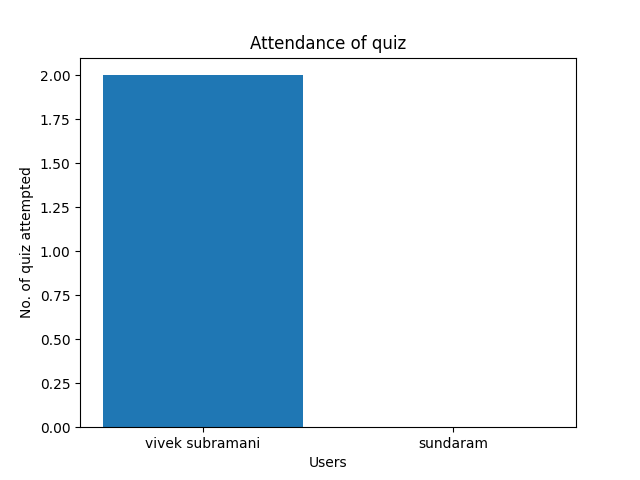
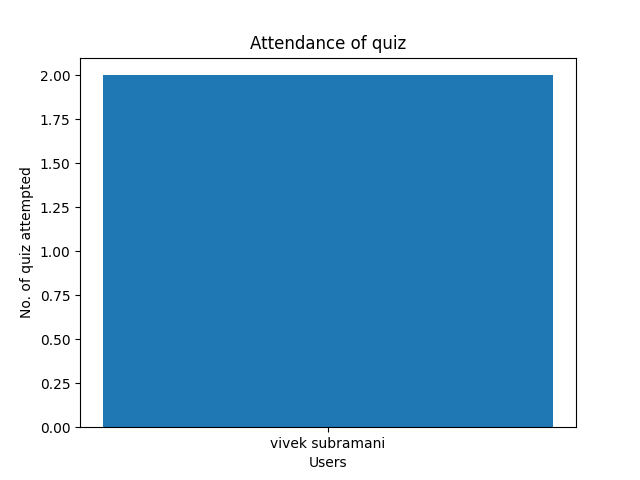
corrected bugs in add quiz date and search for user scores

Changed region(s): [[0.2188, 0.1562, 0.875, 0.9375]]

diff --git a/templates/usersummary.html b/templates/usersummary.html
@@ -25,10 +25,6 @@
                         <a class="nav-link active" aria-current="page" href="/">Logout</a>
                       </li>
                     </ul>
-                    <form class="d-flex" action="/search/{{ u_name }}">
-                      <input class="form-control me-2" type="search" placeholder="Search" aria-label="Search" name="search_word" style="background-color: #ece6e3;">
-                      <button class="btn btn-outline-success" type="submit">Search</button>
-                    </form>
                   </div>
                   <span>&ensp; Welcome {{u_name}}</span>
                 </div>
@@ -51,7 +47,6 @@
                     <p></p>
                     <img src="/static/img3.png" alt="user summary">
                     <span>&ensp;</span>
-                    <img src="/static/img4.png" alt="user summary">
                   </div>
                 </div>
               {% endif %}

diff --git a/controllers/main.py b/controllers/main.py
@@ -115,19 +115,19 @@ def user_dashboard():
 
 @app.route('/scores/<u_name>')
 def scores(u_name):
+    dte = date.today()
     if 'chapter' in request.args:
         sw = request.args.get('chapter')
         user = User.query.filter_by(username=u_name).first()
         score = Score.query.filter(Score.user_id==user.id,Score.chapter_name.like(sw)).all()
-        return render_template('user_scores.html', u_name=u_name, score=score)
+        return render_template('user_scores.html', u_name=u_name, score=score,dte=dte)
     elif 'quiz_date' in request.args:
         sw = request.args.get('quiz_date')
         user = User.query.filter_by(username=u_name).first()
         score = Score.query.filter(Score.user_id==user.id,Score.qdate.like(sw)).all()
-        return render_template('user_scores.html', u_name=u_name, score=score)
+        return render_template('user_scores.html', u_name=u_name, score=score,dte=dte)
     user = User.query.filter_by(username=u_name).first()
     score = Score.query.filter_by(user_id=user.id)
-    dte = date.today()
     return render_template('user_scores.html', u_name=u_name, score=score, dte=dte)
 
 @app.route('/admin',methods=['GET','POST'])
@@ -260,10 +260,10 @@ def quizman():
         if request.form.get('submit') == "Cancel":
             return redirect(url_for('quizmantemp'))
         chapter_id = request.form.get('chapter_id')        
-        date = request.form.get('date')
+        dte = request.form.get('date')
         time = request.form.get('time')
         status = request.form.get('status')
-        if not date:
+        if not dte:
             emsg = "Please specify a date for the quiz!"
             return redirect(url_for('addquiz',emsg=emsg))
         if not time:
@@ -272,7 +272,7 @@ def quizman():
         if not status:
             emsg = "Please set a status for the quiz!"
             return redirect(url_for('addquiz',emsg=emsg))
-        datecon = datetime.strptime(date, '%Y-%m-%d').date()
+        datecon = datetime.strptime(dte, '%Y-%m-%d').date()
         timecon = datetime.strptime(time, '%H:%M').time() 
         time_str = timecon.strftime('%H:%M')
         quiz = Quiz.query.filter_by(chapter_id=chapter_id).first()
@@ -285,6 +285,10 @@ def quizman():
             return redirect(url_for('addquiz',emsg=emsg))
         if not chapter:
             emsg = "The specified Chapter ID does not exist!"
+            return redirect(url_for('addquiz',emsg=emsg))
+        
+        if not (datecon >= date.today()):
+            emsg = "Please enter a valid date!"
             return redirect(url_for('addquiz',emsg=emsg))
         else:
             quiz2 = Quiz(chapter_id=chapter_id,date=datecon,time=time_str,status=status)
@@ -321,6 +325,9 @@ def add_question(quiz_id):
             return redirect(url_for('add_question',emsg=emsg, quiz_id=quiz_id))
         if o1 in [o2, o3, o4] or o2 in [o3, o4] or o3 == o4:
             emsg = "No 2 or more options can be same"
+            return redirect(url_for('add_question',emsg=emsg, quiz_id=quiz_id))
+        if co not in [1,2,3,4]:
+            emsg = "valid correct options - 1,2,3,4!"
             return redirect(url_for('add_question',emsg=emsg, quiz_id=quiz_id))
         new_question = Question(quiz_id=quiz_id,question_id=id,title=title,question_statement=qst,option1=o1,option2=o2,option3=o3,option4=o4,correct_option=co)
         db.session.add(new_question)
@@ -538,7 +545,7 @@ def edit_question(question_id,quiz_id):
     if o1 and o2 and o3 and o4:
         if o1 in [o2, o3, o4] or o2 in [o3, o4] or o3 == o4:
             emsg = "No 2 or more options can be same"
-            return redirect(url_for('editquestion',emsg=emsg, quiz_id=quiz_id))
+            return redirect(url_for('editquestion',emsg=emsg, quiz_id=quiz_id,question_id=question_id))
         question.option1 = o1
         question.option2 = o2
         question.option3 = o3
@@ -546,7 +553,11 @@ def edit_question(question_id,quiz_id):
     else:
         if o1 or o2 or o3 or o4:
             emsg = "Please give entries for all options"
-            return redirect(url_for('editquestion',emsg=emsg, quiz_id=quiz_id))
+            return redirect(url_for('editquestion',emsg=emsg, quiz_id=quiz_id,question_id=question_id))
+    if co not in [1,2,3,4]:
+        emsg = "valid correct options - 1,2,3,4!"
+        return redirect(url_for('editquestion',emsg=emsg, quiz_id=quiz_id,question_id=question_id))
+    
     if title:
         question.title = title
     elif qst:
@@ -672,7 +683,7 @@ def usersummary(u_name):
     user = User.query.filter_by(username=u_name).first()
     score = Score.query.filter_by(user_id=user.id).all()
 
-    attendance = Score.query.filter_by(user_id=user.id).order_by(Score.id.asc()).group_by(Score.quiz_id).all()
+    attendance = Score.query.filter_by(user_id=user.id).all()
     
     avgtime = []
     name_time = {}
@@ -682,9 +693,8 @@ def usersummary(u_name):
     for i in score:
         obj = datetime.strptime(i.time_taken, "%H:%M:%S")
         sec = obj.hour*3600 + obj.minute*60 + obj.second
-        if i.chapter_name not in name_time:
-            name_time[i.chapter_name] = sec
-            avgtime.append(sec)
+        name_time[i.chapter_name] = sec
+        avgtime.append(sec)
 
     avgt = sum(avgtime)/len(avgtime)
     average_time_taken = "0"+str(timedelta(seconds=int(avgt)))
@@ -695,40 +705,13 @@ def usersummary(u_name):
     plt.plot(ch_name, tt, marker='o', linestyle='-', color='b', label='Line 1')
     plt.xlabel("Chapter Name")
     plt.ylabel("Time Taken(Seconds)")
-    plt.title("Time Taken for each chapter")
+    plt.title("Time Taken in each Quiz")
     plt.savefig('static/img3.png')
-
-
-    name_perc = {}
-    for i in score:
-        if i.chapter_name not in name_perc:
-            s = Score.query.filter_by(chapter_name=i.chapter_name,user_id=i.user.id).all()
-            marks = 0
-            count = 0
-            for j in s:
-                marks_perc = (j.total_score/j.noq)*100
-                marks += marks_perc
-                count += 1
-            perc = marks/count
-            name_perc[i.chapter_name] = perc
-        
-    cht_name = list(name_perc.keys())
-    perr = list(name_perc.values())
-    plt.clf()
-    plt.bar(cht_name, perr)
-    plt.ylim(0, 105)
-    plt.xlabel("User Name")
-    plt.ylabel("Percentage")
-    plt.title("Average percentage in all quizzes")
-    plt.savefig('static/img4.png')
         
 
     ch_perc = {}
     for i in score:
-        if i.chapter_name not in ch_perc:
-            s = Score.query.filter_by(chapter_name=i.chapter_name).first()
-            perc = (s.total_score/s.noq)*100
-            ch_perc[i.chapter_name] = perc
+        ch_perc[i.chapter_name] = (i.total_score/i.noq)*100
         
     chap_name = list(ch_perc.keys())
     percen = list(ch_perc.values())
@@ -763,7 +746,7 @@ def usersummary(u_name):
         lables = ["Full Marks","Partial marks"]
     plt.clf()
     plt.pie(values, autopct='%1.1f%%' ,labels=lables)
-    plt.title("Accuracy in First Attempt")
+    plt.title("Accuracy")
     plt.savefig('static/img2.png')
 
     return render_template('usersummary.html', u_name=u_name,avgt=average_time_taken,attendance=len(attendance))
